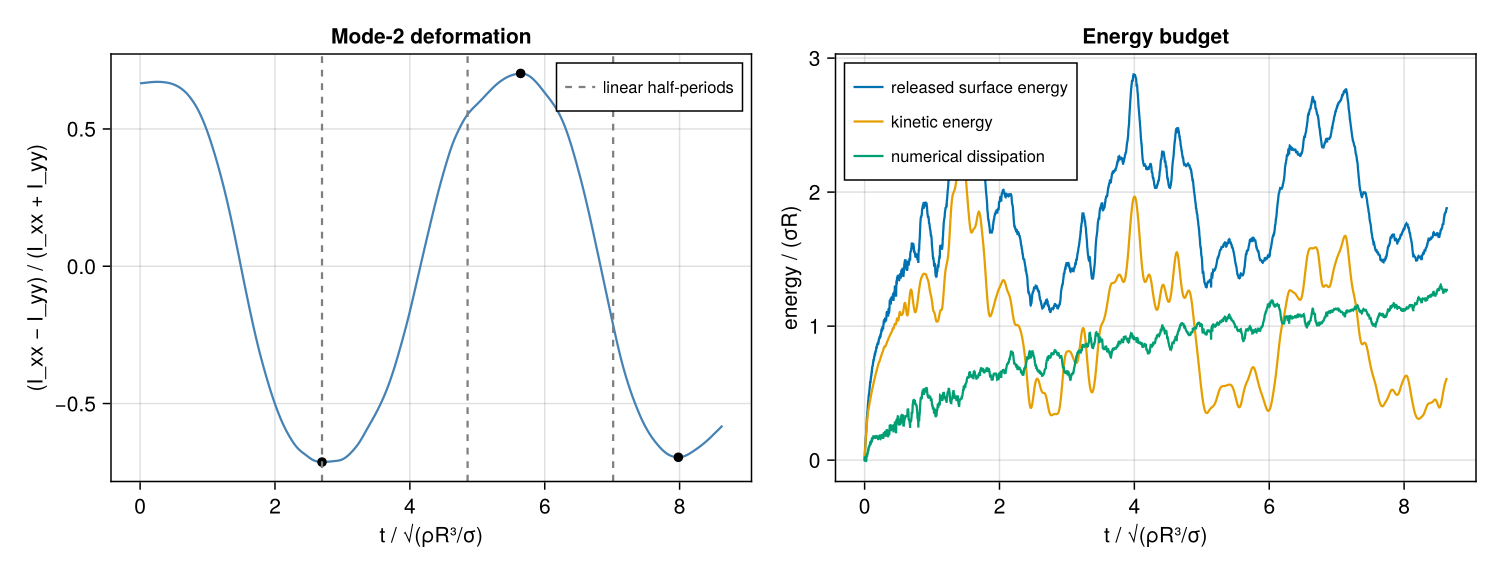
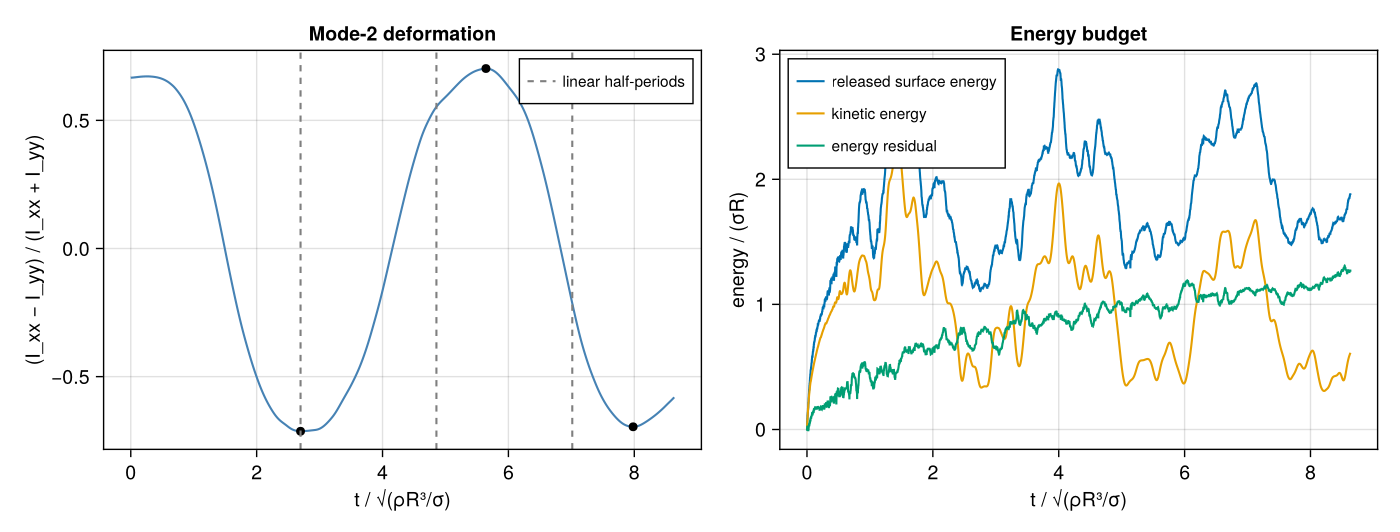
Document the optional coalescence MC comparison
- Keep Lax–Wendroff for the default run and the gallery animation.
- Report matched neck and mode-2 diagnostics; label the energy residual and keep the plot below the gallery size cap.

diff --git a/examples/16_coalescence/README.md b/examples/16_coalescence/README.md
@@ -83,9 +83,23 @@ Two velocities (CMDGFM) and `Oh = 0.01` give the same bridge within 1% at `R/128
 
 ![Mode-2 deformation of the merged drop with the linear half-periods, and the energy budget](assets/oscillation.png)
 
-**Oscillation and energy.** The deformation extrema are `−0.713`, `0.702`, and `−0.696` at `t = 2.698`, `5.643`, and `7.982`. The intervals, 2.945 and 2.339, exceed the linear half-period 2.159. The linear period is a reference, not a quantitative prediction for these amplitudes. At the end, `E_s` has fallen from 11.9426 to 10.0681 and `E_k = 0.6134`; the residual is 1.2612. Liquid volume changes by `3.9×10⁻⁹`.
+**Oscillation and energy.** The deformation extrema are `−0.713`, `0.702`, and `−0.696` at `t = 2.6975`, `5.6429`, and `7.9817`. The intervals, 2.945 and 2.339, exceed the linear half-period 2.159. The linear period is a reference, not a quantitative prediction for these amplitudes. At the end, `E_s` has fallen from 11.9426 to 10.0681 and `E_k = 0.6134`; the residual is 1.2612. Liquid volume changes by `3.9×10⁻⁹`.
 
 In a separate `R/256` run to `t = 0.06`, measured PLIC surface energy outside the neck rises by up to 0.055, while the total residual reaches −0.0284 before turning positive. The neck residual briefly reaches −0.0137 near startup and is positive at the later sampled times. Far-field interface-length bias is comparable to the total energy imbalance; the negative residual alone is not evidence of energy creation. These runs do not establish energy convergence.
+
+### Optional MC momentum advection
+
+At the same level-5 neck resolution (`R/128`), monotonized central (MC) reduced the cell-scale vorticity near the upper neck. The diagnostic subtracts the four-neighbour mean on an `R/128` raster, rejects stencils that cross the interface, and averages the resulting per-phase RMS over ten snapshots through `t = 0.1`. It measures grid-scale content, not vorticity error against a reference.
+
+| Matched run metric | Lax–Wendroff (default) | MC |
+| --- | ---: | ---: |
+| Mean near-neck high-pass vorticity RMS, liquid | 32.08 | 12.48 |
+| Mean near-neck high-pass vorticity RMS, gas | 50.82 | 21.36 |
+| Bridge half-width at `t = 0.1` | 0.46841 | 0.46766 |
+| Decay between the two negative mode-2 extrema | 2.45% | 1.96% |
+| Time between those extrema | 5.284 | 5.295 |
+
+The largest matched-time difference in bridge half-width through `t = 0.1` was `0.00145R` (0.543%). MC did not increase the measured mode-2 decay, but it redistributed the final kinetic and measured surface energies; the final total-energy residual changed by only `0.0022`. These comparisons give no independent reference for late-time damping. The main figures and animation use Lax–Wendroff.
 
 ## Variations
 
@@ -94,6 +108,10 @@ run_example(final_time = 0.1, max_level = 6)       # bridge phase at R/256
 run_example(final_time = 0.1, bridge = 0.25)       # larger initial bridge
 run_example(ohnesorge = 0.01)                      # weakly viscous drops
 run_example(velocity_model = TwoVelocityModel(pressure_projection = CMDGFMProjection()))
+run_example(
+    final_time = 0.1,
+    numerics = NavierStokesOptions(advection = AdvectionOptions(scheme = MonotonizedCentral())),
+)
 ```
 
 ## Files
